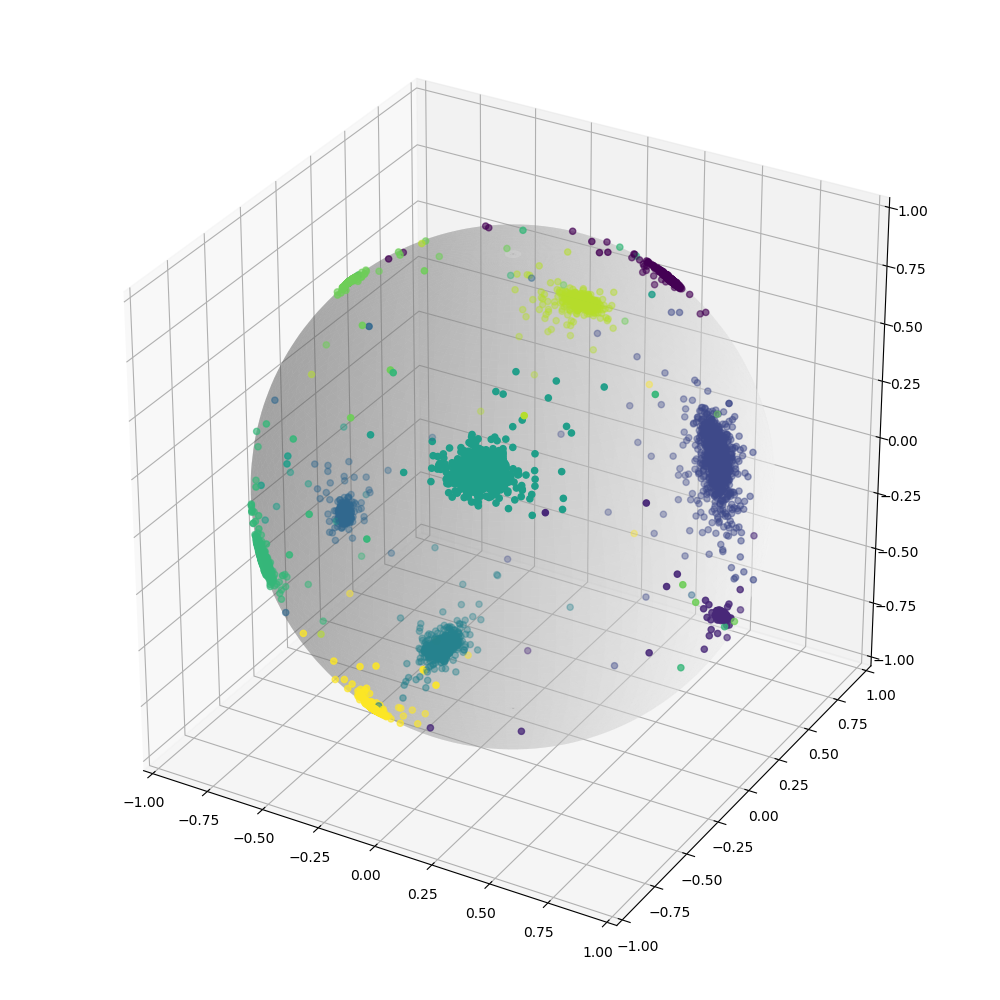
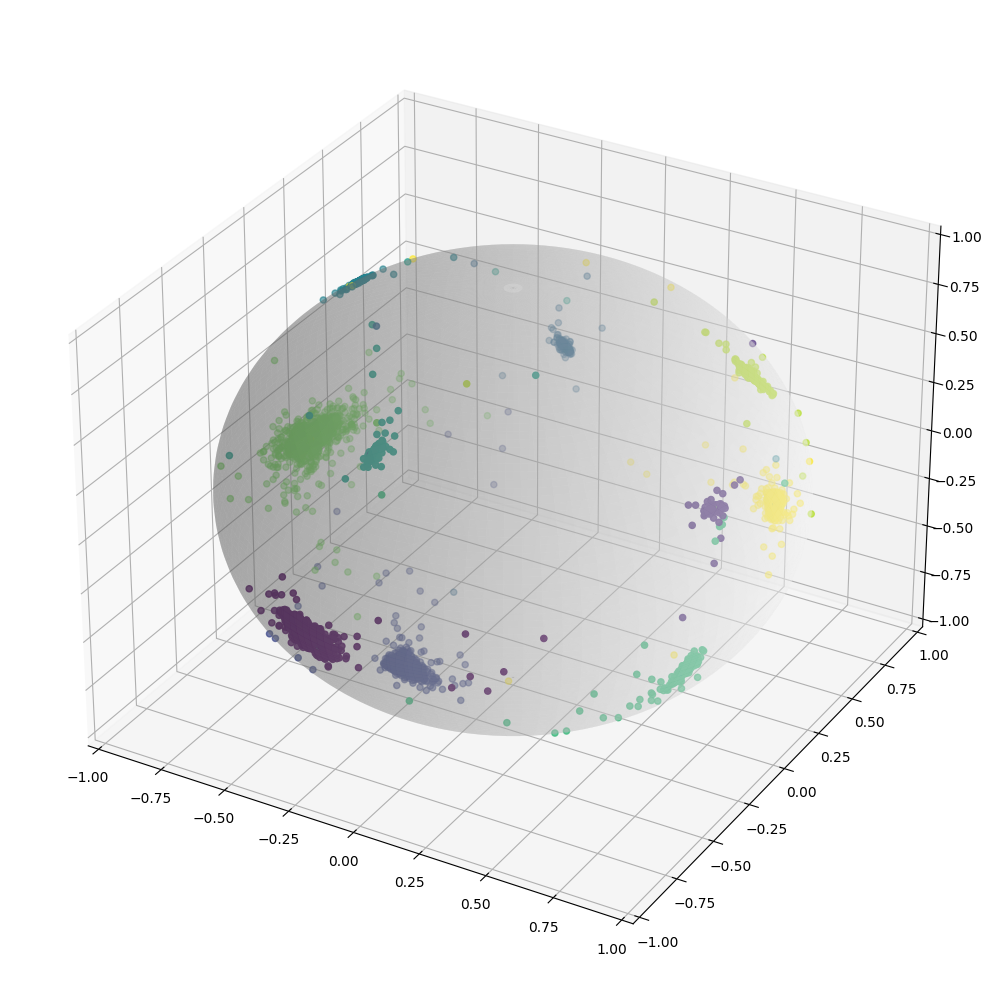
update loss

diff --git a/train.py b/train.py
@@ -1,17 +1,17 @@
 import torch
-import torchvision
+import torch.nn as nn
 import tqdm
 import numpy as np
 from torch.utils.data import random_split
 from tqdm import tqdm
-from torchvision import transforms
+from torchvision import transforms, datasets
 import matplotlib.pyplot as plt
 import torch.optim as optim
 from cosine_margin_loss import CosineMarginLoss
 from model import Model
 from torch.utils.data import random_split
-device = torch.device("cuda:0" if (torch.cuda.is_available()) else "cpu")
 
+device = torch.device("cuda:0" if (torch.cuda.is_available()) else "cpu")
 
 def fit(epoch, model, optimizer, criterion, data_loader, phase='training'):
     if phase == 'training':
@@ -19,7 +19,8 @@ def fit(epoch, model, optimizer, criterion, data_loader, phase='training'):
     else:
         model.eval()
 
-    running_loss = 0.0
+    running_margin_loss = 0.0
+    running_ce_loss = 0.0
 
     for data, label in tqdm(data_loader):
         data = data.to(device)
@@ -32,36 +33,37 @@ def fit(epoch, model, optimizer, criterion, data_loader, phase='training'):
                 output = model(data)
 
         # compute loss
-        loss = criterion(output, label)
-        running_loss += loss.item()
+        loss_margin = criterion[0](output[0], label)
+        loss_ce = criterion[1](output[1], label)
+        loss = loss_margin + loss_ce
+
+        running_margin_loss += loss_margin.item()
+        running_ce_loss += loss_ce.item()
 
         if phase == 'training':
             loss.backward()
             optimizer.step()
 
-    epoch_loss = running_loss / len(data_loader)
-    print('[%d][%s] loss: %.4f' % (epoch, phase, epoch_loss))
+    print(f'[{epoch}][{phase}]loss_margin: {running_margin_loss/len(data_loader)} loss_ce: {running_ce_loss/len(data_loader)}')
 
-    return epoch_loss
+    return (running_margin_loss + running_ce_loss)/len(data_loader)
 
 
 def train(batch_size, model, num_epochs, lr):
     print('loading data ...........')
     transform = transforms.Compose([transforms.ToTensor()])
-    dataset = torchvision.datasets.MNIST(root='./data', train=True, download=True, transform=transform)
+    dataset = datasets.MNIST(root='./data', train=True, download=True, transform=transform)
     train_set, val_set = random_split(dataset, [54000, 6000])
 
     train_loader = torch.utils.data.DataLoader(train_set, batch_size=batch_size, shuffle=True)
     val_loader = torch.utils.data.DataLoader(val_set, batch_size=batch_size, shuffle=True)
 
     optimizer = optim.SGD(model.parameters(), lr=lr, momentum=0.9, nesterov=True)
-    scheduler = optim.lr_scheduler.CosineAnnealingWarmRestarts(optimizer, 50, 1)
-    criterion = CosineMarginLoss(embed_dim=3, num_classes=10).to(device)
+    scheduler = optim.lr_scheduler.MultiStepLR(optimizer, milestones=[30, 40], gamma=0.1)
+    criterion = (CosineMarginLoss(embed_dim=3, num_classes=10).to(device), nn.CrossEntropyLoss())
 
     train_losses, val_losses = [], []
     for epoch in range(num_epochs):
-        scheduler.step(epoch)
-
         train_epoch_loss = fit(epoch, model, optimizer, criterion, train_loader, phase='training')
         val_epoch_loss = fit(epoch, model, optimizer, criterion, val_loader, phase='validation')
         print('-----------------------------------------')
@@ -71,7 +73,9 @@ def train(batch_size, model, num_epochs, lr):
 
         train_losses.append(train_epoch_loss)
         val_losses.append(val_epoch_loss)
-        write_figures(train_losses, val_losses)
+#        write_figures(train_losses, val_losses)
+
+        scheduler.step()
 
 
 def write_figures(train_losses, val_losses):
@@ -84,7 +88,7 @@ def write_figures(train_losses, val_losses):
 
 if __name__ == "__main__":
     model = Model().to(device)
-    num_epochs = 100
-    learning_rate = 0.1
+    num_epochs = 50
+    learning_rate = 0.01
     batch_size = 32
     train(batch_size, model, num_epochs, learning_rate)

diff --git a/test.py b/test.py
@@ -2,14 +2,11 @@ import torch
 import torchvision
 import tqdm
 import numpy as np
-from torch.utils.data import random_split
 from tqdm import tqdm
 from torchvision import transforms
 import matplotlib.pyplot as plt
 from model import Model
 import torch.nn.functional as F
-from matplotlib import cm, colors
-from mpl_toolkits.mplot3d import Axes3D
 
 
 def plot(embeds, labels):
@@ -43,7 +40,7 @@ def test(test_loader, model):
     all_labels = []
     with torch.no_grad():
         for data, label in tqdm(test_loader):
-            embed = model(data)
+            embed = model(data)[0]
             embed = F.normalize(embed, p=2, dim=1).squeeze().cpu().numpy()
             all_embeds.append(embed)
             all_labels.append(label)

diff --git a/model.py b/model.py
@@ -29,12 +29,13 @@ class Model(nn.Module):
             Conv2d(512, 1024, kernel_size=3),
             nn.AdaptiveAvgPool2d(1),
         )
-        self.fc = nn.Sequential(
-            nn.Linear(1024, 3)
-        )
+        self.fc = nn.Linear(1024, 3)
+        self.fc2 = nn.Linear(3, 10)
 
     def forward(self, x):
         x = self.conv(x)
         x = x.view(x.shape[0], -1)
-        x = self.fc(x)
-        return x
+        emb = self.fc(x)
+        logit = self.fc2(emb)
+
+        return emb, logit

diff --git a/README.md b/README.md
@@ -5,9 +5,9 @@ An Pytorch implementation of the Large Margin Cosine Large which was proposed by
 ```
 python train.py
 ```
-Loss during training process
+<!-- Loss during training process
 
-![Image description](output/loss.png)
+![Image description](output/loss.png) -->
 
 ### Testing
 ```
